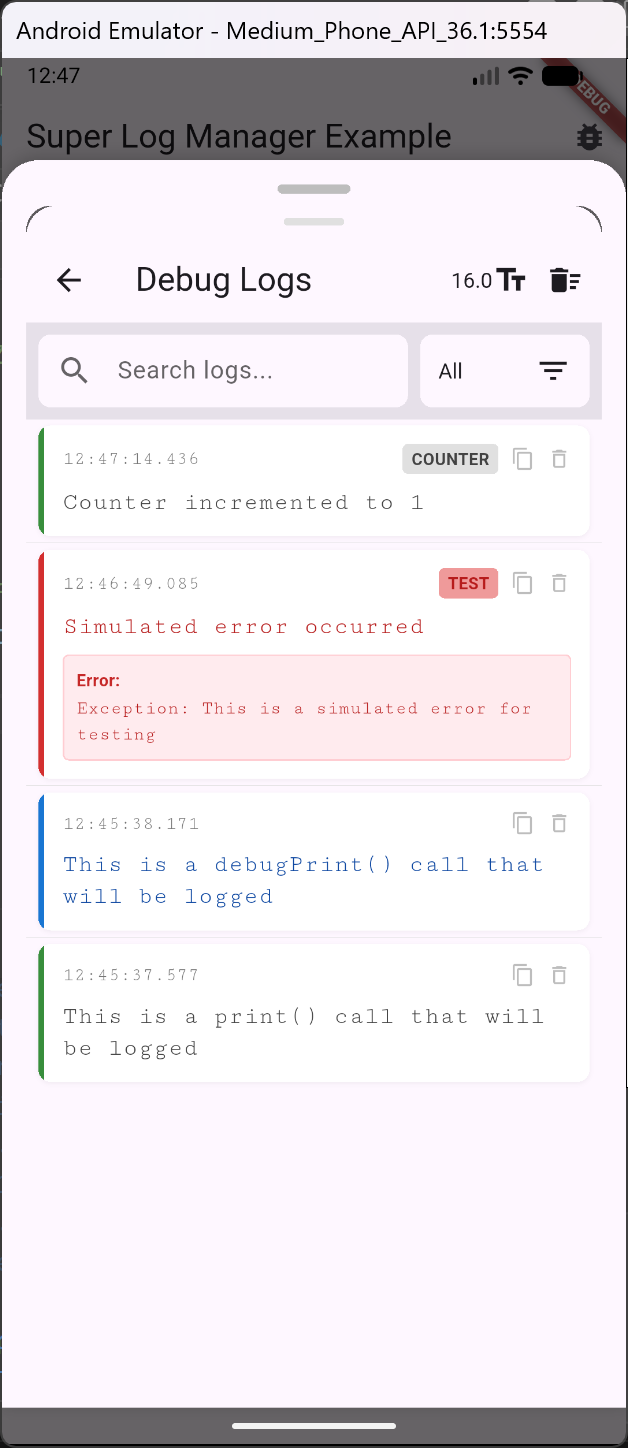
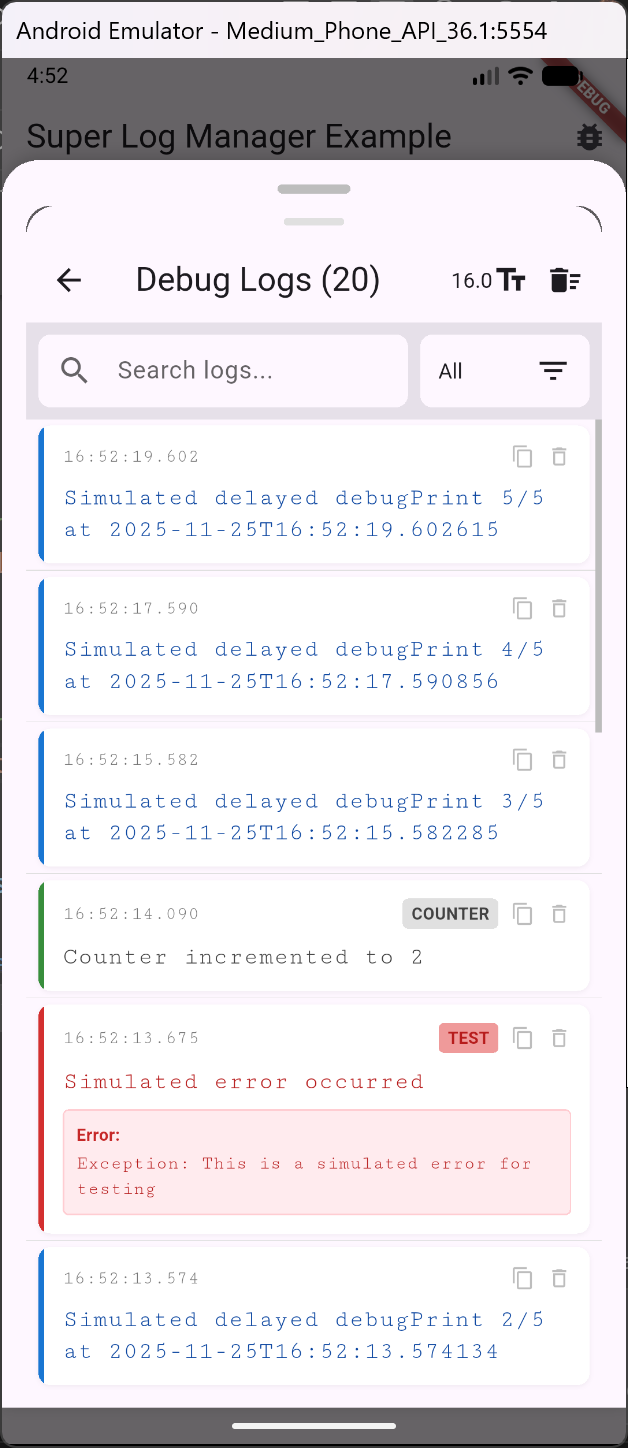
feat: Introduce a new debug log screen and wrapper, remove old analysis files, and update project documentation and dependencies.

diff --git a/lib/src/views/debug_log_screen.dart b/lib/src/views/debug_log_screen.dart
@@ -27,8 +27,6 @@ class _SuperDebugLogScreenState extends State<SuperDebugLogScreen> {
       ValueNotifier<Set<SuperLogEntry>>(<SuperLogEntry>{});
   final ValueNotifier<bool> _isSelectionMode = ValueNotifier<bool>(false);
   final ScrollController _scrollController = ScrollController();
-  bool _autoScroll = true;
-  int _lastLogCount = 0;
 
   @override
   void initState() {
@@ -39,8 +37,6 @@ class _SuperDebugLogScreenState extends State<SuperDebugLogScreen> {
     if (config?.defaultLogLevelFilter != null) {
       _logManager.setLevelFilter(config!.defaultLogLevelFilter);
     }
-    _autoScroll = true;
-    _scrollController.addListener(_handleScrollPositionChanged);
   }
 
   @override
@@ -48,15 +44,9 @@ class _SuperDebugLogScreenState extends State<SuperDebugLogScreen> {
     _fontSize.dispose();
     _selectedLogs.dispose();
     _isSelectionMode.dispose();
-    _scrollController.removeListener(_handleScrollPositionChanged);
+
     _scrollController.dispose();
     super.dispose();
-  }
-
-  void _handleScrollPositionChanged() {
-    if (!_scrollController.hasClients) return;
-    final isAtTop = _scrollController.position.pixels <= 24;
-    _autoScroll = isAtTop;
   }
 
   void _toggleSelection(SuperLogEntry log) {
@@ -271,7 +261,14 @@ class _SuperDebugLogScreenState extends State<SuperDebugLogScreen> {
                     theme.colorScheme.onSurface,
                 title: isSelectionMode
                     ? Text('${selectedLogs.length} selected')
-                    : const Text('Debug Logs'),
+                    : AnimatedBuilder(
+                        animation: _logManager,
+                        builder: (context, _) {
+                          return Text(
+                            'Debug Logs (${_logManager.filteredLogs.length})',
+                          );
+                        },
+                      ),
                 leading: IconButton(
                   icon: Icon(isSelectionMode ? Icons.close : Icons.arrow_back),
                   onPressed: isSelectionMode ? _clearSelection : widget.onClose,
@@ -479,18 +476,6 @@ class _SuperDebugLogScreenState extends State<SuperDebugLogScreen> {
         final logs = _logManager.filteredLogs;
         final logsLength = logs.length;
 
-        if (_autoScroll && logsLength != _lastLogCount) {
-          WidgetsBinding.instance.addPostFrameCallback((_) {
-            if (!_scrollController.hasClients) return;
-            _scrollController.animateTo(
-              0,
-              duration: const Duration(milliseconds: 200),
-              curve: Curves.easeOut,
-            );
-          });
-        }
-        _lastLogCount = logsLength;
-
         if (logsLength == 0) {
           return Center(
             child: Column(
@@ -509,47 +494,51 @@ class _SuperDebugLogScreenState extends State<SuperDebugLogScreen> {
           );
         }
 
-        return ListView.separated(
-          key: const PageStorageKey('debug_logs_list'),
-          itemCount: logsLength,
-          cacheExtent: 500,
-          addAutomaticKeepAlives: false,
-          addRepaintBoundaries: true,
-          addSemanticIndexes: false,
+        return Scrollbar(
           controller: _scrollController,
-          separatorBuilder: (_, __) => Divider(
-            height: 1,
-            thickness: 0.5,
-            color: isDark ? Colors.grey.shade800 : Colors.grey.shade300,
+          thumbVisibility: true,
+          child: ListView.separated(
+            key: const PageStorageKey('debug_logs_list'),
+            itemCount: logsLength,
+            cacheExtent: 500,
+            addAutomaticKeepAlives: false,
+            addRepaintBoundaries: true,
+            addSemanticIndexes: false,
+            controller: _scrollController,
+            separatorBuilder: (_, _) => Divider(
+              height: 1,
+              thickness: 0.5,
+              color: isDark ? Colors.grey.shade800 : Colors.grey.shade300,
+            ),
+            itemBuilder: (context, index) {
+              // Access logs in reverse order without creating a new list
+              final log = logs[logsLength - 1 - index];
+              return _LogItemView(
+                key: ValueKey(
+                  '${log.timestamp.millisecondsSinceEpoch}_${log.message.hashCode}',
+                ),
+                log: log,
+                fontSize: _fontSize,
+                selectedLogs: _selectedLogs,
+                isSelectionMode: _isSelectionMode,
+                isDark: isDark,
+                theme: theme,
+                onTap: () {
+                  if (_isSelectionMode.value) {
+                    _toggleSelection(log);
+                  }
+                },
+                onLongPress: () => _toggleSelection(log),
+                onCopy: () {
+                  final text =
+                      '${log.timestamp} - ${log.level.name.toUpperCase()}: ${log.message}';
+                  Clipboard.setData(ClipboardData(text: text));
+                  _showSnackbar(context, 'Log entry copied');
+                },
+                onDelete: () => _deleteSingleLog(context, log),
+              );
+            },
           ),
-          itemBuilder: (context, index) {
-            // Access logs in reverse order without creating a new list
-            final log = logs[logsLength - 1 - index];
-            return _LogItemView(
-              key: ValueKey(
-                '${log.timestamp.millisecondsSinceEpoch}_${log.message.hashCode}',
-              ),
-              log: log,
-              fontSize: _fontSize,
-              selectedLogs: _selectedLogs,
-              isSelectionMode: _isSelectionMode,
-              isDark: isDark,
-              theme: theme,
-              onTap: () {
-                if (_isSelectionMode.value) {
-                  _toggleSelection(log);
-                }
-              },
-              onLongPress: () => _toggleSelection(log),
-              onCopy: () {
-                final text =
-                    '${log.timestamp} - ${log.level.name.toUpperCase()}: ${log.message}';
-                Clipboard.setData(ClipboardData(text: text));
-                _showSnackbar(context, 'Log entry copied');
-              },
-              onDelete: () => _deleteSingleLog(context, log),
-            );
-          },
         );
       },
     );

diff --git a/original/views/debug_log_screen.dart b/original/views/debug_log_screen.dart
@@ -195,7 +195,7 @@ class _SuperDebugLogScreenState extends State<SuperDebugLogScreen> {
                       true, // Add repaint boundaries for better performance
                   addSemanticIndexes:
                       false, // Disable semantic indexes for better performance
-                  separatorBuilder: (_, __) => Divider(
+                  separatorBuilder: (_, _) => Divider(
                     height: 1,
                     thickness: 0.5,
                     color: isDark ? Colors.grey.shade800 : Colors.grey.shade300,

diff --git a/lib/src/views/debug_wrapper.dart b/lib/src/views/debug_wrapper.dart
@@ -221,7 +221,7 @@ class _DebugLogOverlayState extends State<_DebugLogOverlay> {
           barrierColor: Colors.transparent,
           transitionDuration: Duration.zero,
           reverseTransitionDuration: Duration.zero,
-          pageBuilder: (context, __, ___) {
+          pageBuilder: (context, _, _) {
             return Overlay(
               initialEntries: [OverlayEntry(builder: (_) => overlayContent)],
             );

diff --git a/README.md b/README.md
@@ -7,7 +7,7 @@
 [![Platform](https://img.shields.io/badge/platform-Flutter-02569B.svg)](https://flutter.dev/)
 [![Dart](https://img.shields.io/badge/dart-3.0+-00B4AB.svg)](https://dart.dev/)
 [![Flutter](https://img.shields.io/badge/flutter-3.3+-02569B.svg)](https://flutter.dev/)
-[![Coverage](https://img.shields.io/badge/coverage-95%25-brightgreen.svg)](https://github.com/your-repo/flutter_super_log_manager)
+[![Coverage](https://img.shields.io/badge/coverage-95%25-brightgreen.svg)](https://pub.dev/packages/flutter_super_log_manager)
 
 **The Ultimate Flutter Debug Logging Solution**
 
@@ -197,7 +197,7 @@ Try the plugin with our comprehensive example app:
 
 ```bash
 # Clone the repository
-git clone https://github.com/your-repo/flutter_super_log_manager.git
+git clone https://github.com/a7mdragab1/flutter_super_log_manager.git
 cd flutter_super_log_manager
 
 # Run the example
@@ -264,7 +264,7 @@ Follow these steps to set up the project for development:
 
 ```bash
 # Fork and clone the repository
-git clone https://github.com/your-username/flutter_super_log_manager.git
+git clone https://github.com/a7mdragab1/flutter_super_log_manager.git
 cd flutter_super_log_manager
 
 # Install dependencies
@@ -290,7 +290,7 @@ cd example && flutter run
 ### Getting Help
 
 - 📖 **Documentation**: Check this README and inline code documentation
-- 🐛 **Bug Reports**: [Open an issue](https://github.com/your-repo/flutter_super_log_manager/issues)
+- 🐛 **Bug Reports**: [Open an issue](https://pub.dev/packages/flutter_super_log_manager/issues)
 - 💬 **Discussions**: Use GitHub Discussions for questions
 - 📧 **Email**: Contact maintainers for sensitive issues
 
@@ -334,8 +334,8 @@ SOFTWARE.
 
 **Built with ❤ for the Flutter community**
 
-[⭐ Star us on GitHub](https://github.com/your-repo/flutter_super_log_manager) •
-[🐛 Report Issues](https://github.com/your-repo/flutter_super_log_manager/issues) •
-[📖 Documentation](https://github.com/your-repo/flutter_super_log_manager#readme)
+[⭐ Star us on GitHub](https://pub.dev/packages/flutter_super_log_manager) •
+[🐛 Report Issues](https://pub.dev/packages/flutter_super_log_manager/issues) •
+[📖 Documentation](https://pub.dev/packages/flutter_super_log_manager#readme)
 
 </div>

diff --git a/CHANGELOG.md b/CHANGELOG.md
@@ -1,3 +1,11 @@
-## 0.0.1
+## [1.0.0] - Initial Release
 
-* TODO: Describe initial release.
+- 🚀 Complete debug logging system with automatic error catching
+- 🎯 Draggable overlay bubble with RTL/LTR support
+- 📱 Advanced log viewer with search, filtering, and selection
+- 🎨 Extensive customization options and theming
+- ⚡ Performance optimizations with batch processing
+- 🌍 Internationalization support (RTL/LTR)
+- 📦 Pure Dart implementation - works on all platforms
+- 🔧 Easy production disable with zero overhead
+- 📚 Comprehensive documentation and examples
